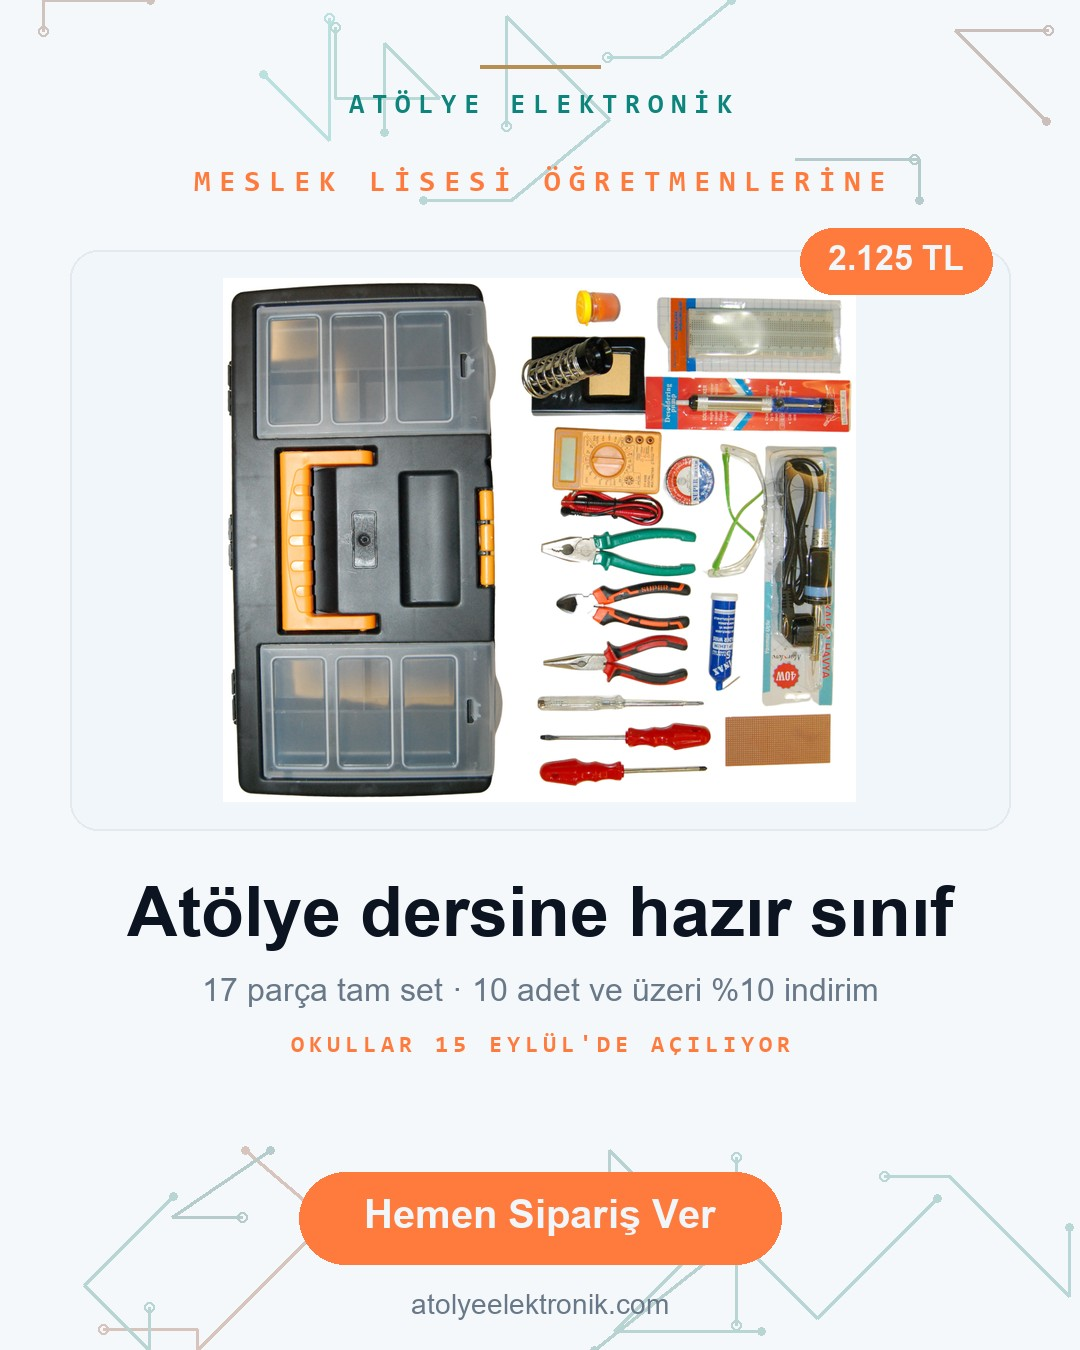
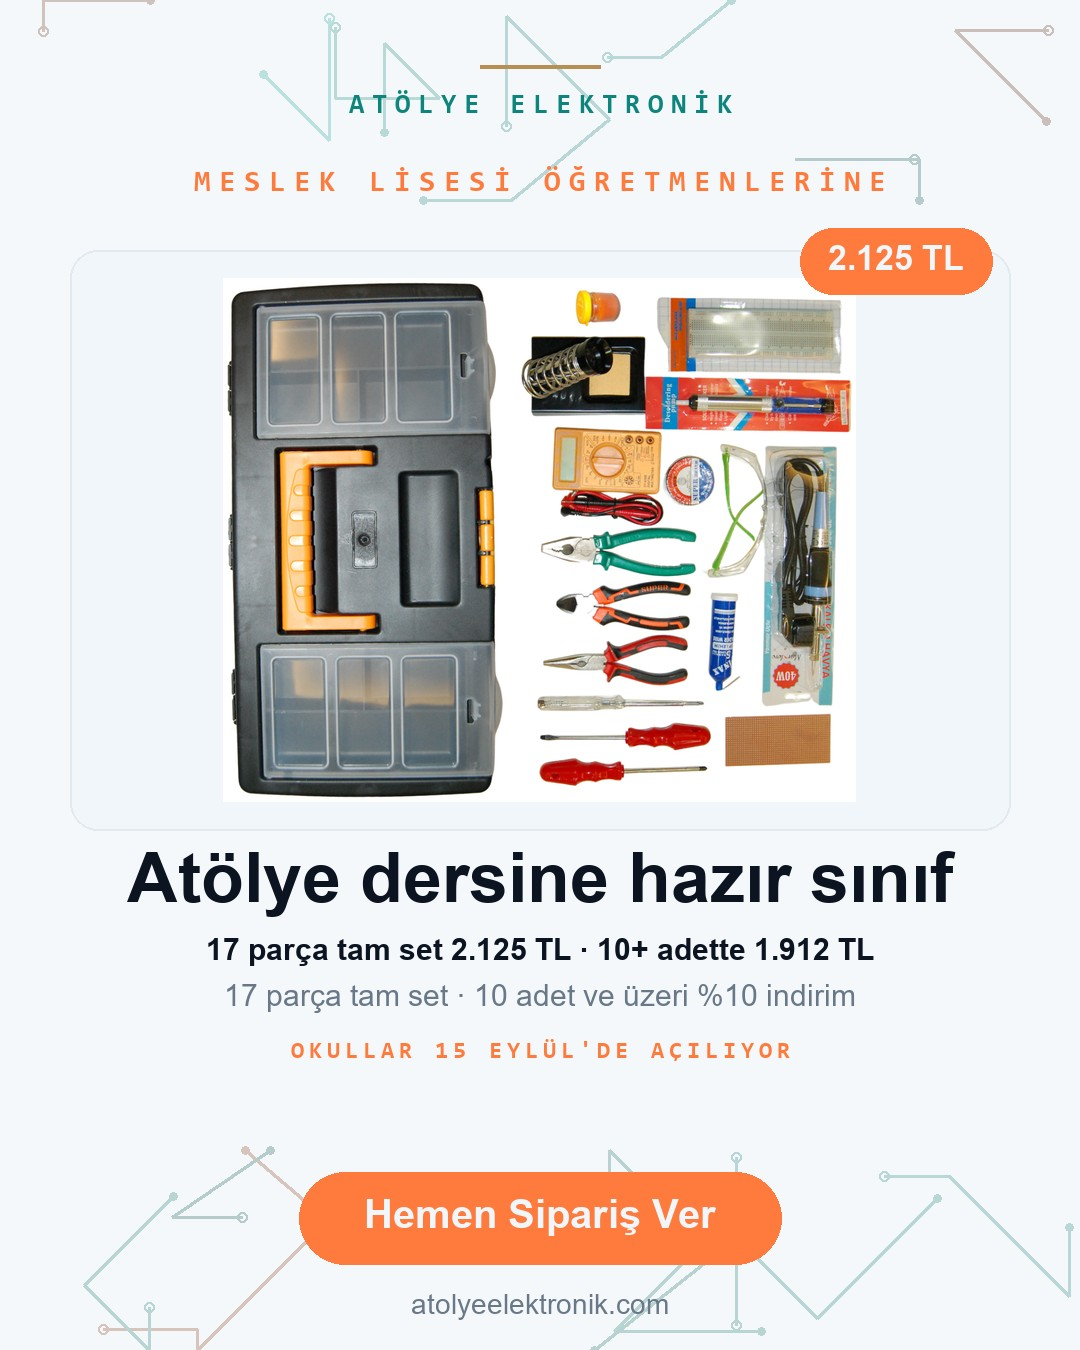
feat: gorsellerde tum fiyat kademesi + defter fiyatlari son hal
Kullanici: 'gorsellere yazi ile hepsinin fiyatini ekleyelim'. Tek fiyat
gosterip gerisini gizlemek alicida 'acaba kacmis' sorusu birakiyor;
secenekleri gorunce karar hizlaniyor. Her gorsele tam fiyat satiri eklendi:

- Defterler: Tekli 90 / 10'lu 850 / 20'li 1.700 / 30'lu 2.550 TL
- Takim cantasi: 2.125 TL, 10+ adette 1.912 TL
- Endustriyel set: 733 TL, 10 adet ve uzeri 660 TL
- Arduino: 46p 870 / 56p 1.092 / 88p 1.766 TL

Defter fiyatlari son hal (kullanici belirledi): tekli 90 TL, paketlerde
adet basi sabit 85 TL. compareAtPrice 900/1800/2700 olarak ayarlandi ki
vitrinde indirim gorunsun.

Changed region(s): [[0.1222, 0.6222, 0.8861, 0.8089]]

diff --git a/tools/meta_ogretmen_gorsel.py b/tools/meta_ogretmen_gorsel.py
@@ -50,8 +50,8 @@ CDN = "https://cdn.shopify.com/s/files/1/0801/9692/7717/files/"
 # kuponunu nötrleyen oran). Fiyat rozeti bilerek var: satış
 # görselinde rakam görmeyen kullanıcı tıklamıyor, fiyatı merak edip kaydırıyor.
 # Defterde birim "öğrenci başına" — öğretmenin karar verdiği birim bu, 2.751 TL
-# yerine 87 TL görmek kararı kolaylaştırıyor. Sınıf paketlerinde kademeli
-# toplu indirim var (%6/%9/%12); paketi olmayan ürünlerde 10 adet ve üzeri
+# yerine 85 TL görmek kararı kolaylaştırıyor. Defter paketlerinde adet başı
+# sabit 85 TL (tekli 90); paketi olmayan ürünlerde 10 adet ve üzeri
 # otomatik %10.
 REKLAMLAR = [
     # Staj defteri ve temrin defteri AYRI reklama cikiyor (kullanici 28.08):
@@ -64,18 +64,20 @@ REKLAMLAR = [
         # Bu kare TY onayindan gecen, amblemsiz surum.
         "foto": "https://cdn.dsmcdn.com/ty1905/prod/QC_PREP/20260817/16/"
                 "933fe5df-927d-3c53-a0e2-770fbd910a0e/1_org_zoom.jpg",
-        "rozet_fiyat": "öğrenci başına 87 TL",
+        "rozet_fiyat": "öğrenci başına 85 TL",
         "baslik": "Staj defteri, tek siparişte",
-        "destek": "30'lu paket 2.619 TL · tek fatura · aynı gün kargo",
+        "destek": "Tek fatura · tek kargo · aynı gün gönderim",
+        "fiyatlar": "Tekli 90 · 10'lu 850 · 20'li 1.700 · 30'lu 2.550 TL",
         "kategori": "İŞLETMELERDE MESLEKİ EĞİTİM İŞ DOSYASI",
     },
     {
         "dosya": "meta-ogretmen-temrin-defteri.png",
         "foto": "https://cdn.dsmcdn.com/ty1919/prod/QC_PREP/20260816/20/"
                 "8155b8ae-6190-342d-9f36-3a08d1910c0e/1_org_zoom.jpg",
-        "rozet_fiyat": "öğrenci başına 87 TL",
+        "rozet_fiyat": "öğrenci başına 85 TL",
         "baslik": "Temrin defteri, tek siparişte",
-        "destek": "48 yaprak 96 sayfa · 30'lu paket 2.619 TL",
+        "destek": "48 yaprak 96 sayfa · tek fatura · aynı gün kargo",
+        "fiyatlar": "Tekli 90 · 10'lu 850 · 20'li 1.700 · 30'lu 2.550 TL",
         "kategori": "ATÖLYE TEMRİN DEFTERİ",
     },
     {
@@ -84,6 +86,7 @@ REKLAMLAR = [
         "rozet_fiyat": "2.125 TL",
         "baslik": "Atölye dersine hazır sınıf",
         "destek": "17 parça tam set · 10 adet ve üzeri %10 indirim",
+        "fiyatlar": "17 parça tam set 2.125 TL · 10+ adette 1.912 TL",
         "kategori": "MESLEK LİSESİ TAKIM ÇANTASI",
     },
     {
@@ -92,6 +95,7 @@ REKLAMLAR = [
         "rozet_fiyat": "733 TL",
         "baslik": "11. sınıf müfredatına birebir",
         "destek": "Her öğrenci aynı setle · 10 adet ve üzeri %10 indirim",
+        "fiyatlar": "733 TL · 10 adet ve üzeri 660 TL",
         "kategori": "ENDÜSTRİYEL ELEKTRONİK SETİ",
     },
     {
@@ -100,6 +104,7 @@ REKLAMLAR = [
         "rozet_fiyat": "870 TL",
         "baslik": "Proje dersine hazır set",
         "destek": "46 parça · 10 adet ve üzeri %10 indirim",
+        "fiyatlar": "46 parça 870 · 56 parça 1.092 · 88 parça 1.766 TL",
         "kategori": "ARDUINO BAŞLANGIÇ SETİ",
     },
 ]
@@ -206,17 +211,27 @@ def uret(reklam: dict) -> pathlib.Path:
     fb, satirlar, boyut = _sigdir(
         d, reklam["baslik"], W - 160, [([70, 62], 2), ([54], 3)]
     )
-    y = 872
+    y = 838
     for s in satirlar:
         d.text(((W - d.textlength(s, font=fb)) / 2, y), s, font=fb, fill=LACIVERT)
         y += int(boyut * 1.2)
 
+    # Tum fiyatlar tek satirda. Tek fiyat gosterip gerisini gizlemek alicida
+    # "acaba kacmis" sorusu birakiyor; secenekleri gorunce karar hizlaniyor.
+    ff = _bold(30)
+    while d.textlength(reklam["fiyatlar"], font=ff) > W - 120 and ff.size > 20:
+        ff = _bold(ff.size - 1)
+    d.text(((W - d.textlength(reklam["fiyatlar"], font=ff)) / 2, y + 10),
+           reklam["fiyatlar"], font=ff, fill=LACIVERT)
+    y += 10 + ff.size + 16
+
     # Destek cümlesi — gerekirse küçülterek tek satırda tut
-    fd = _normal(32)
-    while d.textlength(reklam["destek"], font=fd) > W - 140 and fd.size > 22:
+    fd = _normal(30)
+    while d.textlength(reklam["destek"], font=fd) > W - 140 and fd.size > 20:
         fd = _normal(fd.size - 2)
-    d.text(((W - d.textlength(reklam["destek"], font=fd)) / 2, y + 16),
+    d.text(((W - d.textlength(reklam["destek"], font=fd)) / 2, y),
            reklam["destek"], font=fd, fill=GRI)
+    y -= 16
 
     # Aciliyet — sezon penceresi dar, karari bugune cekiyor
     fa = _mono(24)
